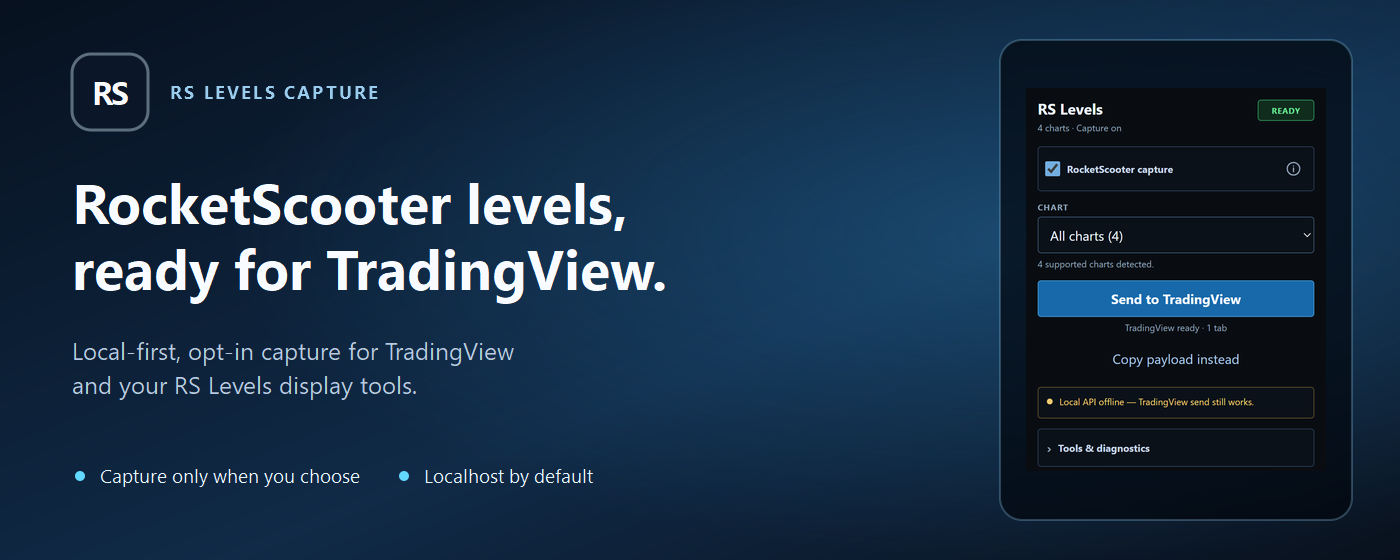
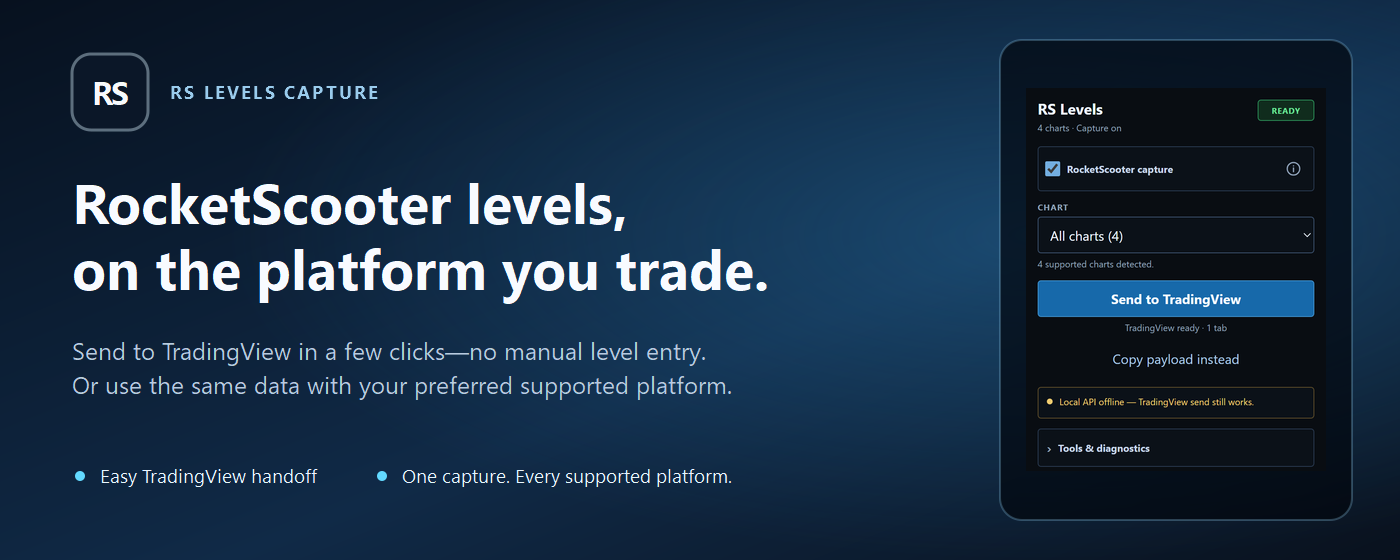
Refine Chrome Web Store messaging

Changed region(s): [[0.0307, 0.6071, 0.5221, 0.7286], [0.0307, 0.425, 0.5529, 0.5464], [0.0614, 0.8196, 0.5221, 0.8804]]

diff --git a/docs/chrome-web-store-release.md b/docs/chrome-web-store-release.md
@@ -67,21 +67,26 @@ English
 **Detailed description**
 
 ```text
-RS Levels Capture moves display-level data from your RocketScooter browser session into local RS Levels display tools.
+RS Levels Capture brings your RocketScooter levels into TradingView and other supported charting platforms.
 
-Capture is off until you opt in. After you enable it, the extension reads allowlisted RocketScooter response bodies and visible chart-level metadata on supported RocketScooter sites. It sends captures to an RS Levels service URL you choose; localhost is the default. Captured data is not sent to the developer.
+Use the same levels you already follow in RocketScooter without manually recreating them on every chart. The extension detects supported RocketScooter charts and prepares the level data for your preferred RS Levels display.
 
 Key features:
-• Detect display data for supported charts currently open in RocketScooter
-• Feed local RS Levels display APIs and compatible platform plugins
-• Copy a TradingView payload or, after an optional exact-site permission grant, fill the visible RS Levels Payload field for review
-• Pause capture at any time and inspect scrubbed connection diagnostics
-• Configure the endpoint allowlist, capture size, and a trusted local or private service URL
+• Display RocketScooter levels directly on TradingView charts
+• Send levels to TradingView in a few clicks—no manual data entry
+• Automatically detect supported RocketScooter charts
+• Choose a specific chart or send all detected charts
+• Use the same captured levels with Sierra Chart, NinjaTrader, Quantower, Bookmap, and other RS Levels integrations
+• Copy a validated payload whenever you prefer a manual workflow
+• Keep data local by default with the optional RS Levels service
+
+TradingView integration is simple: open the RS Levels indicator settings, click “Send to TradingView” in the extension, and review the populated payload before applying it.
+
+Capture is off until you enable it. The extension does not read cookies, passwords, authorization headers, or unrelated form inputs, and captured data is not sent to the extension developer.
 
 Requirements:
 • Your own RocketScooter access
-• The separately installed RS Levels local service for API and plugin workflows
-• A compatible RS Levels TradingView indicator for the optional handoff
+• A compatible RS Levels indicator or platform integration
 
 RS Levels Capture provides display-data transport only. It does not provide trading advice, recommendations, order entry, or broker automation.
 
